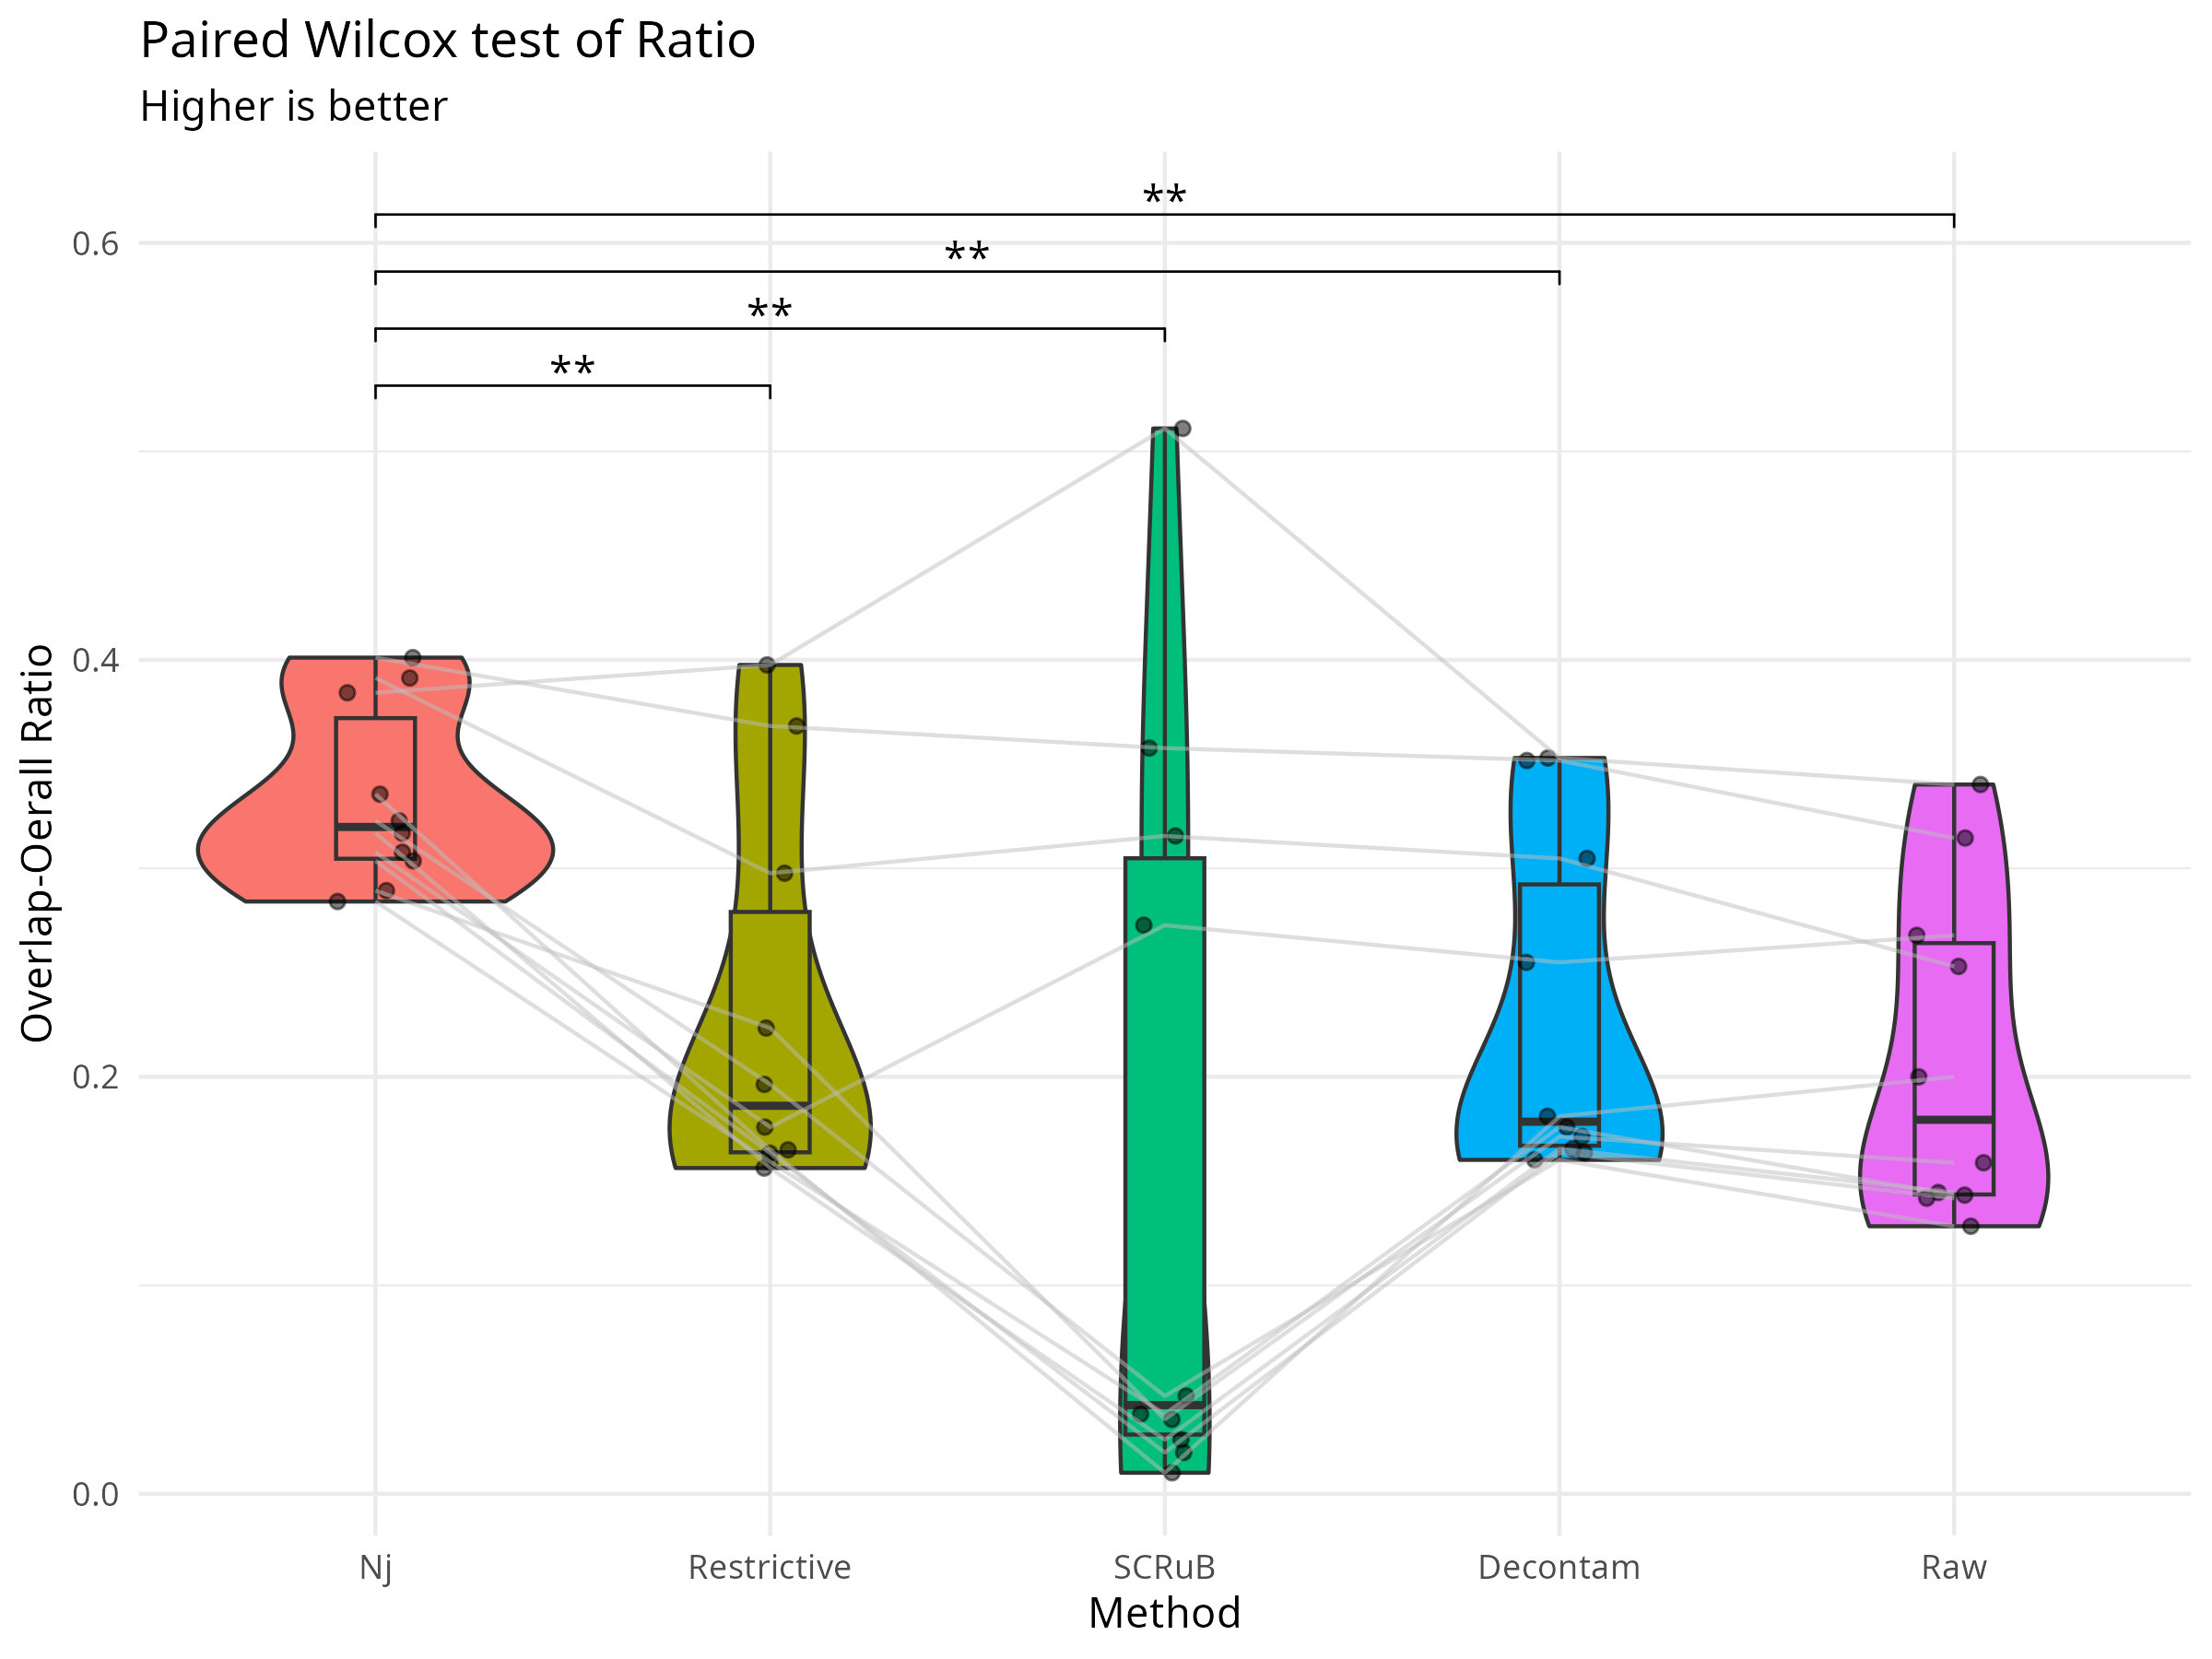
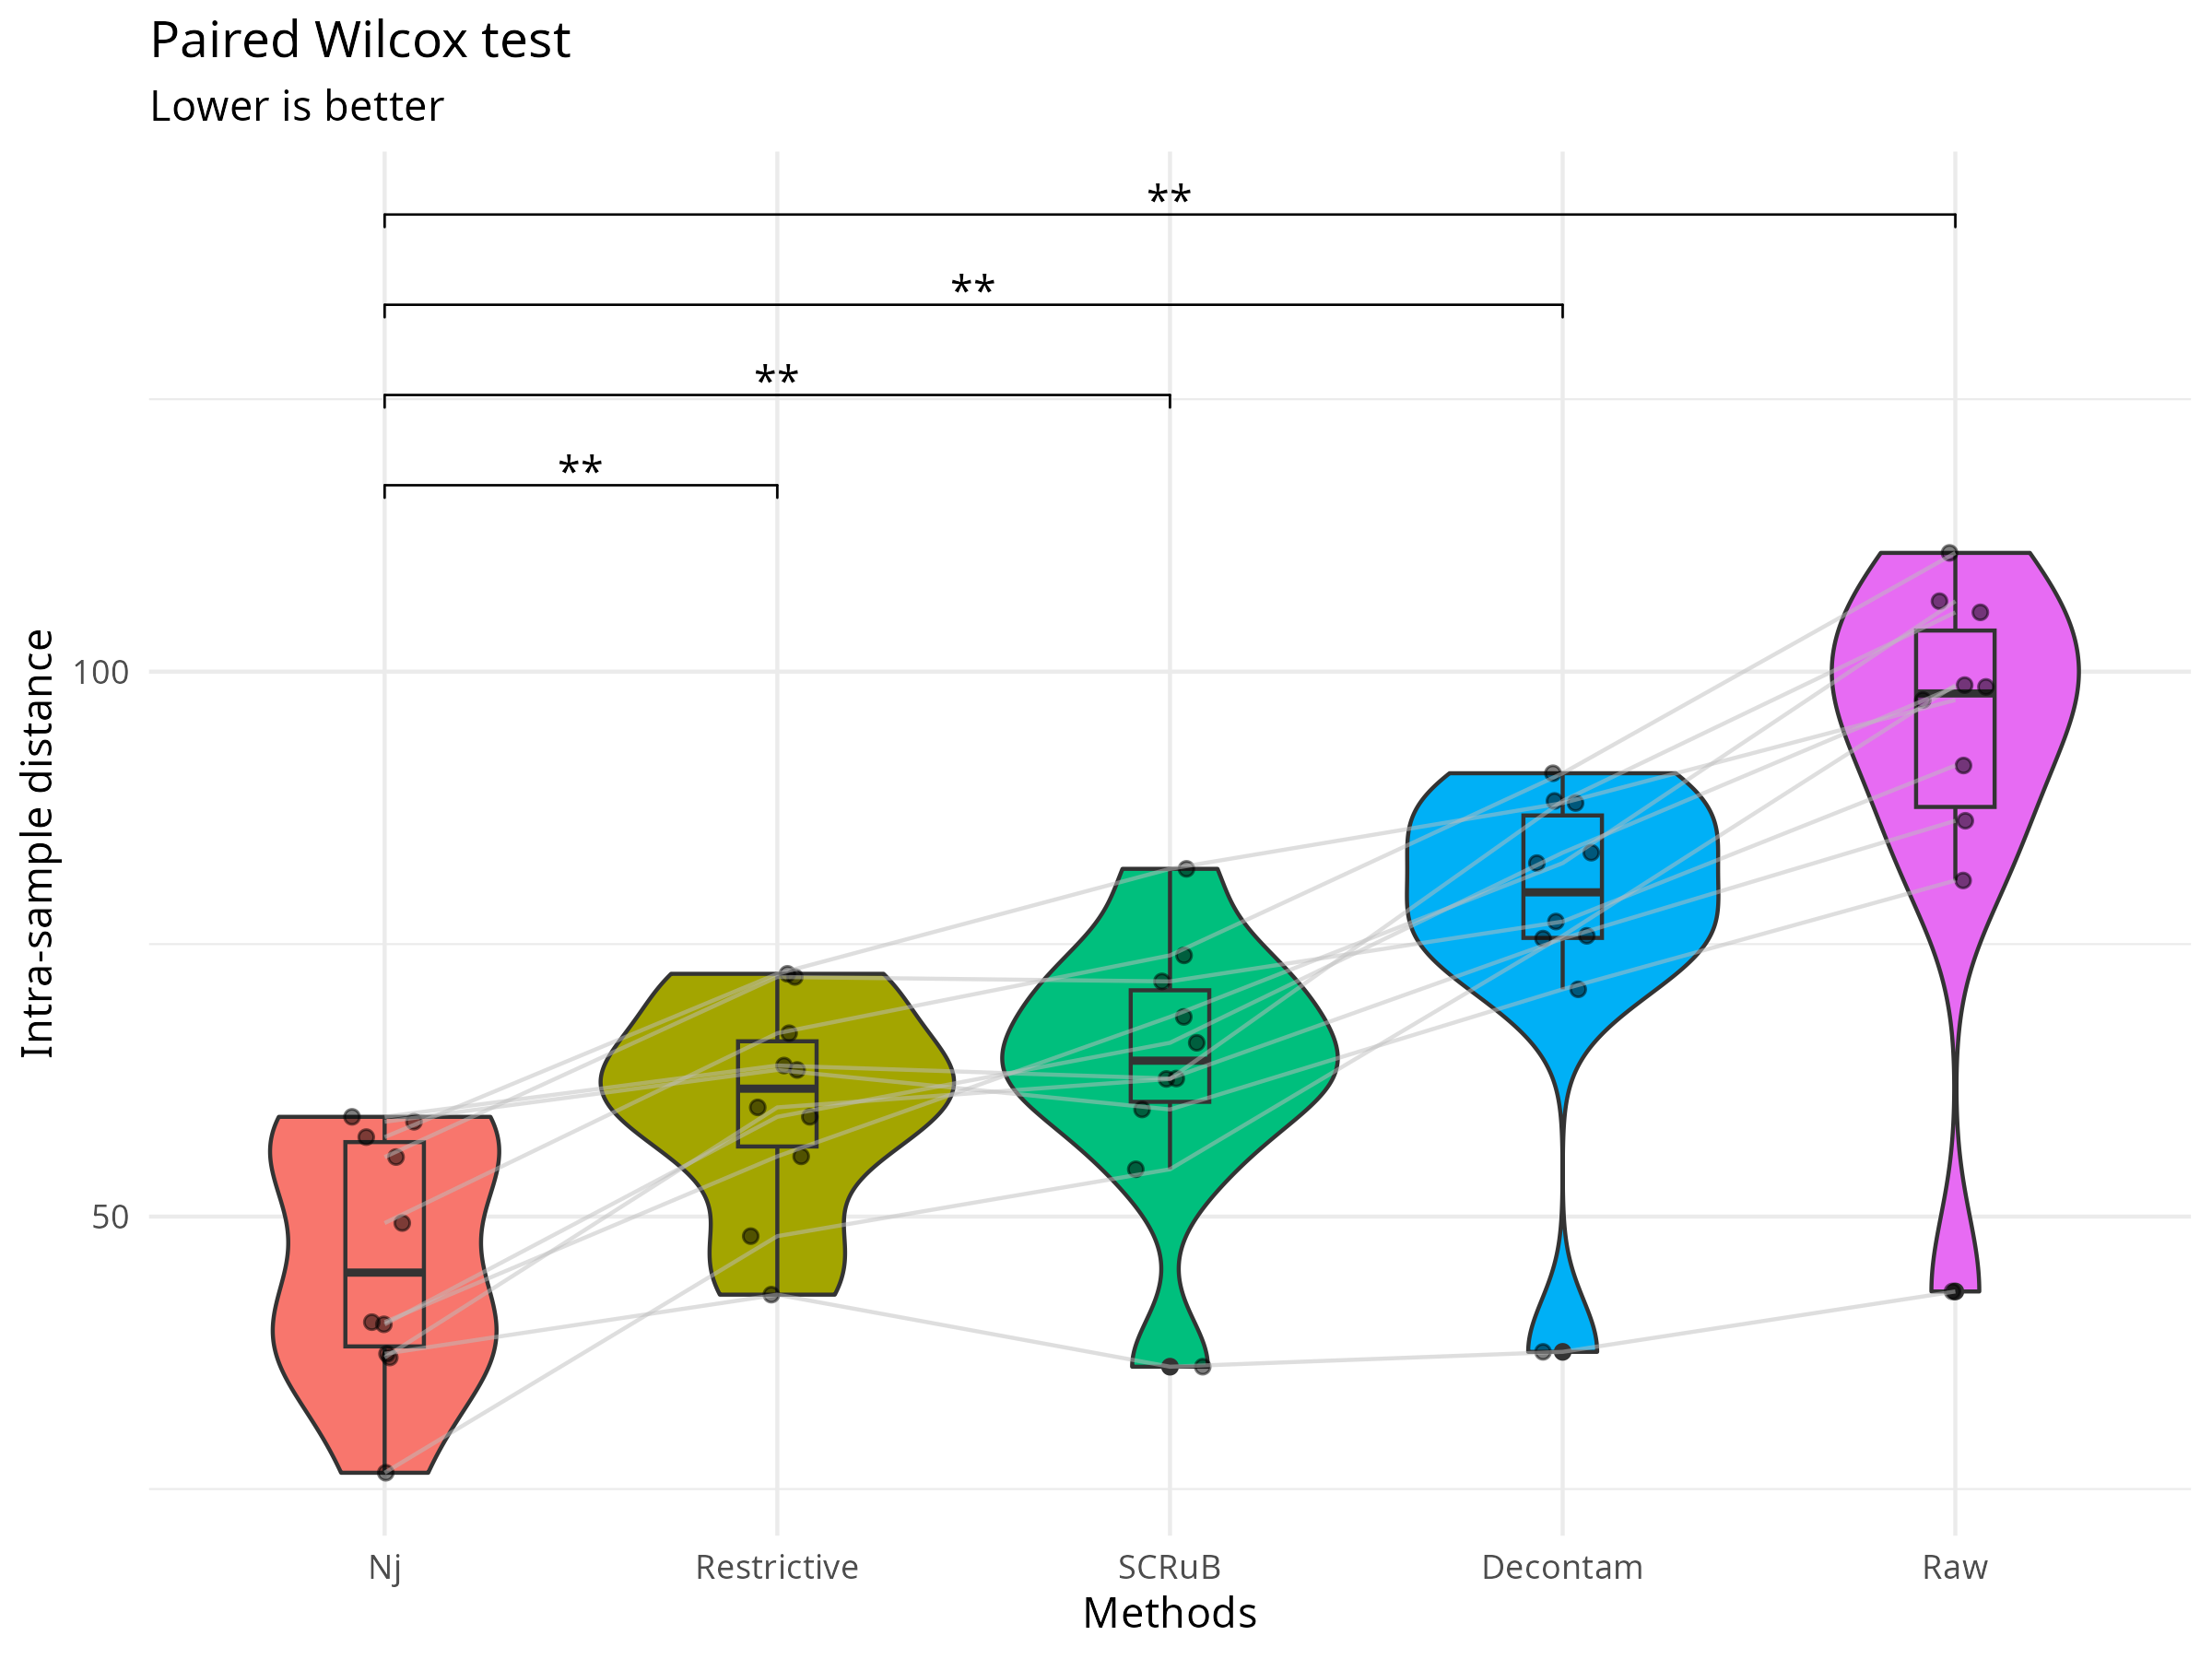
update

diff --git a/Manuscript/WBS_StoryLine_revised.md b/Manuscript/WBS_StoryLine_revised.md
@@ -17,27 +17,27 @@ output:
 
 ### 1.1 Negative controls (NCTs) were collected at every step of the pipeline. [[*Essential*]]{style="color:red"}
 
--   **Figure 1A:** NCT collection scheme and associated metadata. [[*Essential*]]{style="color:red"}
--   **Table 1:** NCT type × year, cells = number of NCT samples. [[*Essential*]]{style="color:red"}
--   **Content:** describe the collection design and comment on the number/diversity of NCT types — this sets up why a *longitudinal* survey (rather than a single batch of controls) is necessary. [[*Essential*]]{style="color:red"}
+- **Figure 1A:** NCT collection scheme and associated metadata. [[*Essential*]]{style="color:red"}
+- **Table 1:** NCT type × year, cells = number of NCT samples. [[*Essential*]]{style="color:red"}
+- **Content:** describe the collection design and comment on the number/diversity of NCT types — this sets up why a *longitudinal* survey (rather than a single batch of controls) is necessary. [[*Essential*]]{style="color:red"}
 
 ### 1.2 Different NCT types harbor distinct contaminant profiles. [[*Essential*]]{style="color:red"}
 
--   **Figure 1B:** alpha diversity of NCT by control type. [[*Essential*]]{style="color:red"}
--   **Figure 1C:** beta diversity of NCT by control type. [[*Essential*]]{style="color:red"}
--   **Figure S1:** supplementary alpha/beta diversity by year / season / lab personnel (LP). [[*Better*]]{style="color:orange"}
--   **Content:**
-    -   Describe alpha/beta diversity by control type; highlight significant differences. [[*Essential*]]{style="color:red"}
-    -   Describe diversity by year/season/LP and flag notable findings — this is the bridge into Section 2. [[*Better*]]{style="color:orange"}
+- **Figure 1B:** alpha diversity of NCT by control type. [[*Essential*]]{style="color:red"}
+- **Figure 1C:** beta diversity of NCT by control type. [[*Essential*]]{style="color:red"}
+- **Figure S1:** supplementary alpha/beta diversity by year / season / lab personnel (LP). [[*Better*]]{style="color:orange"}
+- **Content:**
+  - Describe alpha/beta diversity by control type; highlight significant differences. [[*Essential*]]{style="color:red"}
+  - Describe diversity by year/season/LP and flag notable findings — this is the bridge into Section 2. [[*Better*]]{style="color:orange"}
 
 ### 1.3 Many environmental taxa are found in NCTs, at varying abundance. [[*Better*]]{style="color:orange"}
 
--   **Figure 1D:** heatmap (abundance & prevalence) of top genera in NCT samples.
-    -   Call out clusters or other visible patterns; describe a few representative taxa spanning well-known contaminants and taxa that overlap with the tumor-resident community (this overlap is the crux of why decontamination is hard — flag it explicitly, it foreshadows Section 3).
--   **Figure S2:** same heatmap at other taxonomic ranks / metrics (abundance vs. prevalence).
--   **Figure 1E:** differential abundance analysis (MaAsLin2, species rank) by control type.
-    -   Discuss insights, with appropriate caveats/speculation where the biology is uncertain.
--   **Figure S3:** DAA at other taxonomic ranks and with other tools (ANCOM-BC2, ALDEx2), as robustness checks.
+- **Figure 1D:** heatmap (abundance & prevalence) of top genera in NCT samples.
+  - Call out clusters or other visible patterns; describe a few representative taxa spanning well-known contaminants and taxa that overlap with the tumor-resident community (this overlap is the crux of why decontamination is hard — flag it explicitly, it foreshadows Section 3).
+- **Figure S2:** same heatmap at other taxonomic ranks / metrics (abundance vs. prevalence).
+- **Figure 1E:** differential abundance analysis (MaAsLin2, species rank) by control type.
+  - Discuss insights, with appropriate caveats/speculation where the biology is uncertain.
+- **Figure S3:** DAA at other taxonomic ranks and with other tools (ANCOM-BC2, ALDEx2), as robustness checks.
 
 ------------------------------------------------------------------------
 
@@ -47,14 +47,14 @@ output:
 
 ### 2.1 LP has a stronger effect on the NCT microbiome profile than environment does. [[*Essential*]]{style="color:red"}
 
--   **Figure 2A:** alpha diversity by LP and by environment. [[*Essential*]]{style="color:red"}
--   **Figure 2B:** beta diversity, grouped by environment, colored/shaped by LP. [[*Essential*]]{style="color:red"}
--   **Content:** describe and quantify the differences (effect size, not just p-values). [[*Essential*]]{style="color:red"}
+- **Figure 2A:** alpha diversity by LP and by environment. [[*Essential*]]{style="color:red"}
+- **Figure 2B:** beta diversity, grouped by environment, colored/shaped by LP. [[*Essential*]]{style="color:red"}
+- **Content:** describe and quantify the differences (effect size, not just p-values). [[*Essential*]]{style="color:red"}
 
 ### 2.2 Oral and skin commensal flora mainly drive the LP effect. [[*Best*]]{style="color:green"}
 
--   **Figure 2C:** differential abundance by LP; describe which taxa (oral/skin genera) dominate. [[*Better*]]{style="color:orange"}
--   **Figure S4:** DAA by LP/environment at other ranks and with other tools. [[*Best*]]{style="color:green"}
+- **Figure 2C:** differential abundance by LP; describe which taxa (oral/skin genera) dominate. [[*Better*]]{style="color:orange"}
+- **Figure S4:** DAA by LP/environment at other ranks and with other tools. [[*Best*]]{style="color:green"}
 
 ------------------------------------------------------------------------
 
@@ -62,48 +62,48 @@ output:
 
 ### 3.1 Benchmarking is needed, especially for low-biomass samples such as intratumoral ones. [[*Essential*]]{style="color:red"}
 
--   Literature review and justification for benchmarking decontamination methods, with emphasis on why low-biomass samples are especially prone to false removal/retention.
--   Introduce the three complementary benchmarking strategies below, used precisely because no ground truth exists.
+- Literature review and justification for benchmarking decontamination methods, with emphasis on why low-biomass samples are especially prone to false removal/retention.
+- Introduce the three complementary benchmarking strategies below, used precisely because no ground truth exists.
 
 #### 3.1.1 Benchmarking against the longitudinal negative-control survey. [[*Essential*]]{style="color:red"}
 
--   Explain the composite contamination score conceptually, without heavy technical detail. [[*Essential*]]{style="color:red"}
--   **Figure 3A:** paired Wilcoxon test, non-decontaminated (ND) vs. each decontamination method, with p-values. [[*Essential*]]{style="color:red"}
--   Highlight significant differences and interpret. [[*Better*]]{style="color:orange"}
--   **Supplementary table:** pairwise comparisons among ND and all decontamination methods. [[*Best*]]{style="color:green"}
--   **Figure S5:** linear mixed model (random effect = SampleID) as a robustness check on the paired Wilcoxon result. [[*Best*]]{style="color:green"}
+- Explain the composite contamination score conceptually, without heavy technical detail. [[*Essential*]]{style="color:red"}
+- **Figure 3A:** paired Wilcoxon test, non-decontaminated (ND) vs. each decontamination method, with p-values. [[*Essential*]]{style="color:red"}
+- Highlight significant differences and interpret. [[*Better*]]{style="color:orange"}
+- **Supplementary table:** pairwise comparisons among ND and all decontamination methods. [[*Best*]]{style="color:green"}
+- **Figure S5:** linear mixed model (random effect = SampleID) as a robustness check on the paired Wilcoxon result. [[*Best*]]{style="color:green"}
 
 #### 3.1.2 Benchmarking with technical replicates. [[*Better*]]{style="color:orange"}
 
--   Explain the intra-sample-distance approach using technical replicates.
--   **Figure 3B:** paired Wilcoxon test with p-values, ND vs. 4 decontamination methods.
--   Highlight significant differences and identify the best-performing method.
--   **Supplementary table:** pairwise comparisons among ND and decontamination methods. [[*Best*]]{style="color:green"}
--   **Figure S6:** LMM as an alternative/robustness check. [[*Best*]]{style="color:green"}
+- Explain the intra-sample-distance approach using technical replicates.
+- **Figure 3B:** paired Wilcoxon test with p-values, ND vs. 4 decontamination methods.
+- Highlight significant differences and identify the best-performing method.
+- **Supplementary table:** pairwise comparisons among ND and decontamination methods. [[*Best*]]{style="color:green"}
+- **Figure S6:** LMM as an alternative/robustness check. [[*Best*]]{style="color:green"}
 
 #### 3.1.3 Benchmarking with an overall-overlap ratio. [[*Best*]]{style="color:green"}
 
--   Define the overlap ratio and explain its use for benchmarking.
--   Describe the comparison and identify the best-performing method.
--   **Figure 3C:** paired Wilcoxon test with p-values.
--   **Supplementary table:** pairwise comparisons.
--   **Figure S7:** LMM robustness check.
+- Define the overlap ratio and explain its use for benchmarking.
+- Describe the comparison and identify the best-performing method.
+- **Figure 3C:** paired Wilcoxon test with p-values.
+- **Supplementary table:** pairwise comparisons.
+- **Figure S7:** LMM robustness check.
 
 *Note: 3.1.1–3.1.3 should converge on (or explicitly reconcile disagreement about) the same "best" decontamination method — that convergence is itself a key result worth a sentence in the text.*
 
-### 3.2 Combining technical replicates with decontamination yields a reliable microbiome profile for low-biomass samples. [[*Better*]]{style="color:orange"}
+### 3.2 Technical replicas with deconmatimantion method reveals reliable microbiome profile for low-biomass samples. [[*Better*]]{style="color:orange"}
 
--   Describe the network-based (NJ) method applied to 2 replicates, using the intersection of the two to define the reliable profile.
--   **Figure 3D:** barplot of bacterial composition in each replicate and their overlap.
+- Describe the network-based (NJ) method applied to 2 replicates, using the intersection of the two to define the reliable profile.
+- **Figure 3D:** barplot of bacterial composition in each replicate and their overlap.
 
 ------------------------------------------------------------------------
 
 ## 4. FFPE samples are not reliable for intratumoral microbiome profiling. [[*Best*]]{style="color:green"}
 
--   Report which taxa remain after decontamination in FFPE samples and compare them against the core taxa identified in Section 3.
--   **[Needs expansion]** — currently a single bullet for a "Best"-tier section that closes the paper; consider adding:
-    -   A figure directly comparing FFPE vs. fresh-frozen (or the reference low-biomass workflow) post-decontamination taxa (overlap/Venn or barplot, consistent with Fig. 3D's style).
-    -   A short quantitative statement (e.g., % of core taxa retained/lost in FFPE) rather than a qualitative-only comparison.
+- Report which taxa remain after decontamination in FFPE samples and compare them against the core taxa identified in Section 3.
+- **[Needs expansion]** — currently a single bullet for a "Best"-tier section that closes the paper; consider adding:
+  - A figure directly comparing FFPE vs. fresh-frozen (or the reference low-biomass workflow) post-decontamination taxa (overlap/Venn or barplot, consistent with Fig. 3D's style).
+  - A short quantitative statement (e.g., % of core taxa retained/lost in FFPE) rather than a qualitative-only comparison.
 
 ------------------------------------------------------------------------
 
@@ -111,7 +111,7 @@ output:
 
 Not a results section, but worth planning now so the figures above are built with the takeaway in mind:
 
--   One paragraph tying 1–2 together: contamination is systematic and traceable to lab personnel, not random noise — this is *why* a statistical rather than ad hoc approach is required.
--   One paragraph tying 3 together: triangulating three independent benchmarks (no ground truth needed) is the methodological contribution.
--   One paragraph on 4: practical guidance/caveat for the field on FFPE use in microbiome studies.
--   Explicit statement of the recommended decontamination method + workflow for other low-biomass microbiome studies (this is likely the single sentence reviewers will quote).
+- One paragraph tying 1–2 together: contamination is systematic and traceable to lab personnel, not random noise — this is *why* a statistical rather than ad hoc approach is required.
+- One paragraph tying 3 together: triangulating three independent benchmarks (no ground truth needed) is the methodological contribution.
+- One paragraph on 4: practical guidance/caveat for the field on FFPE use in microbiome studies.
+- Explicit statement of the recommended decontamination method + workflow for other low-biomass microbiome studies (this is likely the single sentence reviewers will quote).

diff --git a/Manuscript/WBS_StoryLine.md b/Manuscript/WBS_StoryLine.md
@@ -9,31 +9,31 @@ output:
 
 ## 1. Longitudinal Contaminant Survey in the lab could reveal its unique contamination profile. [[*Essential*]]{style="color:red"}
 
-***NOTES:*** for the sack of simplicity. I will only use Wrench normalization 
+***NOTES:*** for the sack of simplicity. I will only use Wrench normalization
 
 ### 1.1 Negative controls were collected in every step in the pipeline. [[*Essential*]]{style="color:red"}
 
--   Figure 1.A: NCT collection and associated metadata collection. [[*Essential*]]{style="color:red"}
--   Table 1: Negative control types $\times$ years, values are the number of NCT samples. [[*Essential*]]{style="color:red"}
--   Content: description of the collection as well as comment on the number of NCT types. [[*Essential*]]{style="color:red"}
+- Figure 1.A: NCT collection and associated metadata collection. [[*Essential*]]{style="color:red"}
+- Table 1: Negative control types $\times$ years, values are the number of NCT samples. [[*Essential*]]{style="color:red"}
+- Content: description of the collection as well as comment on the number of NCT types. [[*Essential*]]{style="color:red"}
 
 ### 1.2 Different negative control (NCT) types harbor their own contaminant profile. [[*Essential*]]{style="color:red"}
 
--   Figure 1.B: alpha diversity of NCT w.r.t control types. [[*Essential*]]{style="color:red"}
--   Figure 1.C: beta diversity of NCT w.r.t control types. [[*Essential*]]{style="color:red"}
--   Figure S1: supplementary figures of alpha/beta diversity w.r.t year/season/LP. [[*Better*]]{style="color:orange"}
--   Content:
-    -   Describe alpha and beta diversity w.r.t control types, highlight significant differences. [[*Essential*]]{style="color:red"}
-    -   Similarly, describe the diversity w.r.t year/season/LP and highlight important findings. [[*Better*]]{style="color:orange"}
+- Figure 1.B: alpha diversity of NCT w.r.t control types. [[*Essential*]]{style="color:red"}
+- Figure 1.C: beta diversity of NCT w.r.t control types. [[*Essential*]]{style="color:red"}
+- Figure S1: supplementary figures of alpha/beta diversity w.r.t year/season/LP. [[*Better*]]{style="color:orange"}
+- Content:
+  - Describe alpha and beta diversity w.r.t control types, highlight significant differences. [[*Essential*]]{style="color:red"}
+  - Similarly, describe the diversity w.r.t year/season/LP and highlight important findings. [[*Better*]]{style="color:orange"}
 
 ### 1.3 Many environmental taxa are found in NCT, with different levels of abundance. [[*Better*]]{style="color:orange"}
 
--   Figure 1.D: heatmap (abund. & prev.) of top selected taxa (genus, by abundance) in NCT samples.
--   Highlight any noticeable patterns, e.g cluster, in the plot. Also describing a few taxa, including well-known contaminant and mixed of environmental taxa and tumor-resided taxa.
--   Figure S2: supplementary figures for similar heatmap plots with different taxa rank and by abund/prev.
--   Figure 1.E: plots of differential abundance analyses (MaAsLin2, species rank) w.r.t control types.
--   Insights of the above DAA plots, as well as certain degree of explanation and speculation.
--   Figure S3: supplementary figures for DAA plots with different taxa rank as well as different softwares (ANCOM-BC2, Aldex2).
+- Figure 1.D: heatmap (abund. & prev.) of top selected taxa (genus, by abundance) in NCT samples.
+- Highlight any noticeable patterns, e.g cluster, in the plot. Also describing a few taxa, including well-known contaminant and mixed of environmental taxa and tumor-resided taxa.
+- Figure S2: supplementary figures for similar heatmap plots with different taxa rank and by abund/prev.
+- Figure 1.E: plots of differential abundance analyses (MaAsLin2, species rank) w.r.t control types.
+- Insights of the above DAA plots, as well as certain degree of explanation and speculation.
+- Figure S3: supplementary figures for DAA plots with different taxa rank as well as different softwares (ANCOM-BC2, Aldex2).
 
 ## 2. Laboratory personel influences microbiome more than processing environments. [[*Better*]]{style="color:orange"}
 
@@ -82,7 +82,7 @@ output:
 ### 3.2 Technical replicas combined with deconmatimantion method could be useful to reveal reliable microbiome profile for low-biomass samples. [[*Better*]]{style="color:orange"}
 
 - Describe using Nj-based method on 2 replica and the intersection of them to reveal the reliable microbiome profile.
-- Figure 3.D: a barplot showing bacterial composition of 2 replicas and their overlap. 
+- Figure 3.D: a barplot showing bacterial composition of 2 replicas and their overlap.
 
 ## 4. FFPE samples are not reliable for intratumoral microbiome profile. [[*Best*]]{style="color:green"}
 